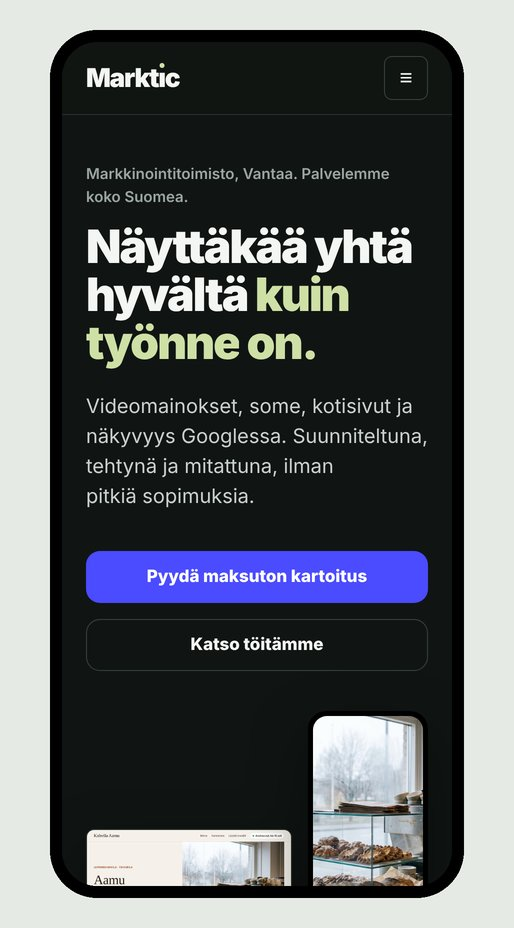
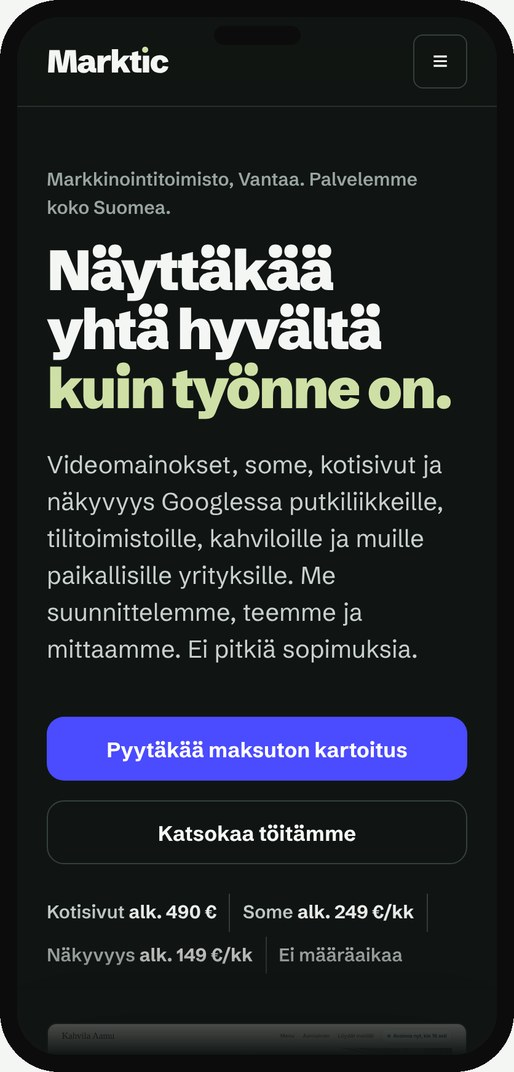
Mail dialog redesign, alkaen in hero prices, LVI case as paper report, new phone mock-up, shared report CSS
Claude-Session: https://claude.ai/code/session_013KbEkKeuAjt5iLSLovH75J

diff --git a/tyot.html b/tyot.html
@@ -10,14 +10,10 @@
 <meta property="og:title" content="Työt – Marktic"><meta property="og:description" content="Konseptitöitä ja esimerkkejä siitä, millaista jälkeä Marktic tekee: kotisivut, videomainokset ja näkyvyyden korjaukset."><meta property="og:url" content="https://marktic.fi/tyot.html"><meta property="og:locale" content="fi_FI">
 <link rel="stylesheet" href="site.css">
 <style>
-.cases{display:grid;gap:var(--s6)} .case{display:grid;grid-template-columns:1fr 1.2fr;gap:var(--s5);align-items:center;padding-top:var(--s5);border-top:1px solid var(--paper-line)} .case:first-child{border:0;padding-top:0} .case .ct p{color:var(--paper-mut);margin:var(--s2) 0 var(--s3)} .case .cv .shot{margin:0} .case .vidwrap{margin:0;justify-self:center} .case .rep2{margin:0}
+.cases{display:grid;gap:var(--s6)} .case{display:grid;grid-template-columns:1fr 1.2fr;gap:var(--s5);align-items:center;padding-top:var(--s5);border-top:1px solid var(--paper-line)} .case:first-child{border:0;padding-top:0} .case .ct p{color:var(--paper-mut);margin:var(--s2) 0 var(--s3)} .case .cv .shot{margin:0} .case .vidwrap{margin:0;justify-self:center} .case .rep{margin:0}
 @media (max-width:900px){.case{grid-template-columns:1fr;gap:var(--s4)}}
 .shot{display:block;margin-top:var(--s3);border-radius:var(--r2);overflow:hidden;border:1px solid var(--paper-line)} .shot img{width:100%;height:auto;display:block;transition:transform .3s var(--ease)} .shot:hover img{transform:scale(1.02)}
-.rep2{margin-top:var(--s3);border:1px solid var(--paper-line);border-radius:var(--r2);padding:var(--s3);background:#fff}
 .rh{display:flex;justify-content:space-between;align-items:center;font-size:var(--t-sm);margin-bottom:var(--s2)}
-.rep2{overflow:hidden} .rep2 table{width:100%;border-collapse:collapse;font-size:var(--t-sm);table-layout:fixed} .rep2 td,.rep2 th{overflow-wrap:normal}
-@media (max-width:640px){.rep2 table{table-layout:auto;display:block} .rep2 thead,.rep2 tbody{display:block} .rep2 thead th:first-child{display:none} .rep2 thead tr,.rep2 tbody tr{display:grid;grid-template-columns:1fr 1fr;gap:0 var(--s3)} .rep2 tbody th{grid-column:1/-1;padding-bottom:2px} .rep2 tbody td{border-top:0;padding-top:0} .rep2 thead th{padding:0 0 var(--s1)}} .rep2 th,.rep2 td{text-align:left;padding:var(--s2) 0;border-top:1px solid var(--paper-line);vertical-align:top} .rep2 thead th{border:0;color:var(--paper-mut);font-weight:600;font-size:var(--t-sm)} .rep2 tbody th{font-weight:600;color:var(--paper-ink);padding-right:var(--s2)}
-.rep2 .ok{color:#1f6b3a;font-weight:700} .rep2 .no{color:#9a4a1a;font-weight:700}
 .vidwrap{position:relative;max-width:260px;aspect-ratio:9/16;margin-top:var(--s3);border-radius:var(--r2);overflow:hidden;background:#000}
 .vid{width:100%;height:100%;object-fit:cover;display:block}
 .vidtxt{position:absolute;left:18px;top:24px;font-weight:900;font-size:32px;line-height:.95;letter-spacing:-.04em;color:#fff;text-shadow:0 2px 12px rgba(0,0,0,.5)} .vidtxt em{font-style:normal;color:var(--lichen)}
@@ -48,18 +44,33 @@
 <article class="case"><div class="ct"><p class="eyebrow">Konseptityö, kuvitteellinen asiakas</p><h2 class="h3">Kahvila Aamu: Instagram-mainosvideo</h2><p>11 sekunnin mainosvideo kolmesta valokuvasta: hidas kamera-ajo, ristihäivytykset ja tekstit. Sopii Instagramiin ja Metan mainontaan sellaisenaan. Sama kuvitteellinen kahvila kuin kotisivuilla.</p></div>
 <div class="cv vidwrap"><video class="vid" src="assets/kahvila-aamu-ad.mp4" poster="assets/kahvila-aamu-ad-poster.jpg" autoplay muted loop playsinline preload="metadata" disablepictureinpicture controlslist="nodownload noplaybackrate" tabindex="-1" style="pointer-events:none" aria-label="Esimerkki: Kahvila Aamun Instagram-mainosvideo"></video></div></article>
 <article class="case"><div class="ct"><p class="eyebrow">Konseptityö, kuvitteellinen asiakas</p><h2 class="h3">LVI-liike, Vantaa: näkyvyyden korjauspaketti</h2><p>Google-yritysprofiili, hakemistot ja palvelusivut, joista hakupalvelut löytävät yrityksen. Raportti näyttää tilanteen ennen ja 30 päivää korjausten jälkeen.</p></div>
-<div class="cv"><div class="rep2" aria-label="Esimerkki näkyvyysraportista ennen ja jälkeen korjauspaketin">
-<div class="rh"><b>LVI-Esimerkki Oy, Vantaa</b><span class="tag" style="margin:0">Esimerkki</span></div>
-<table><thead><tr><th scope="col"></th><th scope="col">Ennen</th><th scope="col">Jälkeen (30 pv)</th></tr></thead><tbody>
-<tr><th scope="row">Google-yritysprofiili</th><td class="no">Puutteellinen</td><td class="ok">Kunnossa</td></tr>
-<tr><th scope="row">Hakemistot, joita hakupalvelut käyttävät</th><td class="no">1 / 5</td><td class="ok">5 / 5</td></tr>
-<tr><th scope="row">Hakupalvelut mainitsevat yrityksen</th><td class="no">0 / 3 kysymyksessä</td><td class="ok">2 / 3 kysymyksessä</td></tr>
-<tr><th scope="row">Kotisivuilla rakenteinen tieto</th><td class="no">Ei</td><td class="ok">Kyllä</td></tr>
-</tbody></table>
-<p style="color:var(--paper-mut);font-size:var(--t-sm);margin-top:var(--s3)">Luvut ovat esimerkki siitä, miltä raportti näyttää, eivät mittaustulos.</p></div></article>
+<div class="cv"><div class="rep" aria-label="Esimerkki korjauspaketin raportista ennen ja jälkeen">
+      <div class="rh"><div><span class="rlogo"><span aria-hidden="true">Markt<span class="i">ı</span>c</span><span class="sr">Marktic</span></span><br><b>Korjauspaketin raportti · 30 päivää</b></div><div class="rr">LVI-Esimerkki Oy, Vantaa<br><span class="tag" style="margin:0">Esimerkki</span></div></div>
+      <div class="tiles3">
+        <div><small>Google-yritysprofiili</small><b class="ok">Kunnossa</b><span>päivästä 4</span></div>
+        <div><small>Mainittu vastauksissa</small><b>2 / 3</b><span>kysymyksessä</span></div>
+        <div><small>Hakemistot oikein</small><b class="ok">5 / 5</b><span>kaikki korjattu</span></div>
+      </div>
+      <table class="mtr"><caption>Ennen ja jälkeen korjauspaketin</caption>
+        <thead><tr><th scope="col"></th><th scope="col">ennen</th><th scope="col">päivä 30</th><th scope="col">muutos</th></tr></thead>
+        <tbody>
+          <tr><th scope="row">Google-yritysprofiili</th><td class="down">puutteellinen</td><td class="ok">kunnossa</td><td class="up">korjattu</td></tr>
+          <tr><th scope="row">Hakemistot, joita hakupalvelut käyttävät</th><td>1 / 5</td><td>5 / 5</td><td class="up">+4</td></tr>
+          <tr><th scope="row">Hakupalvelut mainitsevat yrityksen</th><td>0 / 3</td><td>2 / 3</td><td class="up">+2</td></tr>
+          <tr><th scope="row">Sija kartalla, ”LVI Vantaa”</th><td>9.</td><td>5.</td><td class="up">+4</td></tr>
+          <tr><th scope="row">Yritysprofiilin katselut</th><td>96</td><td>171</td><td class="up">+78 %</td></tr>
+          <tr><th scope="row">Soitot profiilista</th><td>4</td><td>9</td><td class="up">+5</td></tr>
+          <tr><th scope="row">Kotisivuilla rakenteinen tieto</th><td>ei</td><td>kyllä</td><td class="up">lisätty</td></tr>
+        </tbody></table>
+      <div class="rcols">
+        <div><small>Tehty</small><ul><li>Päivä 2: Google-yritysprofiili täydennetty, 14 kuvaa</li><li>Päivä 5: Neljä hakemistoa korjattu</li><li>Päivä 9: Palvelusivut ja rakenteinen tieto</li></ul></div>
+        <div><small>Seuraavaksi</small><ul><li>Arvostelupyyntö asiakkaille</li><li>Usein kysytyt kysymykset sivuille</li><li>Mittaus jatkuu viikoittain</li></ul></div>
+      </div>
+      <p class="cmp"><b>Luvut ovat esimerkki raportin muodosta, eivät mittaustulos.</b></p>
+    </div></div></article>
 <article class="case"><div class="ct"><p class="eyebrow">Oma työ</p><h2 class="h3">Tämä sivusto</h2><p>Marktic.fi on tehty samalla tavalla kuin asiakkaiden sivut: nopea, toimii puhelimessa, rakenteinen tieto hakupalveluille, ei seurantaevästeitä. Jos pidätte tästä, saatte samanlaisen.</p>
 <ul class="list" style="margin-top:var(--s3)"><li>Latautuu nopeasti myös puhelimessa</li><li>Toimii ilman evästeitä</li><li>Tiedot muodossa, jonka Google ja hakupalvelut ymmärtävät</li></ul></div>
-<div class="cv"><img class="shot" src="demo/marktic-puhelin.jpg" alt="Marktic.fi:n etusivu puhelimen näytöllä" width="514" height="928" loading="lazy" style="max-width:360px;margin:0 auto;border:0;box-shadow:none;background:none"></div></article>
+<div class="cv"><img class="shot" src="demo/marktic-puhelin.jpg" alt="Marktic.fi:n etusivu puhelimen näytöllä" width="514" height="1072" loading="lazy" style="max-width:360px;margin:0 auto;border:0;box-shadow:none;background:none"></div></article>
 </div></section>
 <section class="close"><div class="wrap">
   <h2>Lähettäkää yrityksenne nimi ja paikkakunta.</h2>

diff --git a/site.css b/site.css
@@ -32,6 +32,7 @@ a{color:inherit}
 img,svg{display:block;max-width:100%}
 .wrap{width:min(1200px,100% - 2*var(--s4));margin-inline:auto}
 .mono{font-family:"JetBrains Mono",ui-monospace,Menlo,monospace;font-size:var(--t-xs);letter-spacing:.08em;text-transform:uppercase}
+.sr{position:absolute;width:1px;height:1px;overflow:hidden;clip:rect(0 0 0 0);white-space:nowrap}
 .skip{position:absolute;left:var(--s3);top:-60px;background:var(--lichen);color:var(--lichen-ink);padding:var(--s2) var(--s3);border-radius:var(--r1);font-weight:700;z-index:50}
 .skip:focus{top:var(--s3)}
 :focus-visible{outline:3px solid var(--lichen);outline-offset:3px;border-radius:var(--r1)}
@@ -47,12 +48,19 @@ img,svg{display:block;max-width:100%}
 .nav a{text-decoration:none;font-weight:600;font-size:var(--t-sm);color:var(--ink-2);padding:0;min-height:44px;min-width:44px;display:inline-flex;align-items:center;justify-content:center;box-sizing:border-box;border-bottom:2px solid transparent;transition:color .2s var(--ease),border-color .2s var(--ease)}
 .nav a:hover{color:var(--ink)} .nav a[aria-current=page]{color:var(--ink);border-color:var(--lichen)}
 .nav a.mail{color:var(--lichen);margin-left:var(--s2);border-bottom:0;text-decoration:underline;text-underline-offset:5px;text-decoration-thickness:1.5px} .nav a.mail:hover{color:var(--ink)}
-.maild{margin:auto;inset:0;position:fixed;border:1px solid var(--line-2);background:var(--bg-2,#171d1a);color:var(--ink);border-radius:var(--r2);padding:0;width:min(440px,calc(100vw - 32px));box-shadow:0 30px 80px rgba(0,0,0,.5)} .maild::backdrop{background:rgba(0,0,0,.55)}
-.maild-f{padding:var(--s5);display:grid;gap:var(--s3);position:relative} .maild-f h2{font-size:var(--t-xl);margin:0} .maild-f p{color:var(--ink-2);font-size:var(--t-sm);margin:0}
-.maild-f label{display:grid;gap:6px;font-weight:600;font-size:var(--t-sm)} .maild-f label small{font-weight:400;color:var(--mut);display:inline;margin-left:4px}
-.maild-f input,.maild-f textarea{font:inherit;color:var(--ink);background:var(--bg);border:1px solid var(--line-2);border-radius:var(--r1);padding:10px 12px;min-height:44px} .maild-f textarea{min-height:72px;resize:vertical}
-.maild-b{display:flex;gap:var(--s2);flex-wrap:wrap;margin-top:var(--s1)} .maild-x{position:absolute;right:12px;top:12px;width:40px;height:40px;background:none;border:0;color:var(--ink-2);font-size:18px;cursor:pointer;border-radius:var(--r1)} .maild-x:hover{color:var(--ink)}
-.maild-a a{color:var(--lichen)} .maild .btn-ghost{background:transparent;color:var(--ink);border:1px solid var(--line-2)} .maild .btn-ghost:hover{border-color:var(--ink)}
+.maild{margin:auto;inset:0;position:fixed;border:1px solid var(--line-2);background:var(--bg-2);color:var(--ink);border-radius:var(--r2);padding:0;width:min(520px,calc(100vw - 32px));box-shadow:0 30px 80px rgba(0,0,0,.55)} .maild::backdrop{background:rgba(8,10,9,.6);backdrop-filter:blur(2px)}
+.maild-f{padding:var(--s4) var(--s5) var(--s5);display:grid;gap:var(--s3)}
+.maild-h{display:flex;justify-content:space-between;align-items:center;margin:0 calc(-1*var(--s5)) var(--s2);padding:0 var(--s4) var(--s3) var(--s5);border-bottom:1px solid var(--line)}
+.maild-logo{font-weight:900;font-size:20px;letter-spacing:-.045em} .maild-logo .i{position:relative} .maild-logo .i::after{content:"";position:absolute;left:50%;top:.19em;width:.19em;height:.19em;border-radius:50%;background:var(--lichen);transform:translateX(-50%)}
+.maild-f h2{font-size:var(--t-2xl);margin:0;letter-spacing:-.02em} .maild-p{color:var(--ink-2);font-size:var(--t-sm);margin:0;max-width:44ch}
+.maild-g{display:grid;grid-template-columns:1fr 1fr;gap:var(--s3)} @media (max-width:560px){.maild-g{grid-template-columns:1fr}}
+.maild-f label{display:grid;gap:6px;font-size:var(--t-sm)} .maild-f label>span{font-weight:600;color:var(--ink)} .maild-f label small{font-weight:400;color:var(--mut);margin-left:6px}
+.maild-f input,.maild-f textarea{font:inherit;color:var(--ink);background:var(--bg);border:1px solid var(--line-2);border-radius:var(--r1);padding:11px 13px;min-height:46px;width:100%;box-sizing:border-box} .maild-f input::placeholder,.maild-f textarea::placeholder{color:var(--mut)} .maild-f textarea{min-height:84px;resize:vertical}
+.maild-f input:focus-visible,.maild-f textarea:focus-visible{outline:2px solid var(--brand);outline-offset:0;border-color:var(--brand)}
+.maild-b{display:flex;gap:var(--s3);align-items:center;flex-wrap:wrap;margin-top:var(--s1)} .maild-b .btn{min-height:48px}
+.maild-copy{background:none;border:0;color:var(--ink-2);font:inherit;font-weight:600;cursor:pointer;padding:10px 4px;text-decoration:underline;text-underline-offset:4px;border-radius:var(--r1)} .maild-copy:hover{color:var(--ink)}
+.maild-x{width:40px;height:40px;background:none;border:0;color:var(--ink-2);font-size:16px;cursor:pointer;border-radius:var(--r1)} .maild-x:hover{color:var(--ink);background:var(--bg)}
+.maild-a{color:var(--mut);font-size:var(--t-xs);margin:0} .maild-a a{color:var(--lichen)}
 .menu-btn{display:none;background:none;border:1px solid var(--line-2);color:var(--ink);border-radius:var(--r1);width:44px;height:44px;cursor:pointer;font-size:22px;line-height:1}
 
 /* buttons */
@@ -138,3 +146,20 @@ footer ul{list-style:none;display:grid;gap:0;align-content:start}
   footer .wrap{grid-template-columns:1fr}
   section{padding:var(--s6) 0}
 }
+
+/* Report mock-up (home + Työt) */
+.rep{background:#fff;border:1px solid var(--paper-line);border-radius:6px;padding:var(--s4);color:var(--paper-ink);box-shadow:0 20px 50px rgba(23,32,29,.10);font-size:var(--t-sm)}
+.rh{display:flex;justify-content:space-between;gap:var(--s3);padding-bottom:var(--s3);border-bottom:2px solid var(--paper-ink);line-height:1.45} .rh b{font-size:var(--t-base)} .rr{text-align:right;color:var(--paper-mut)}
+.rlogo{font-weight:900;font-size:var(--t-lg);letter-spacing:-.045em} .rlogo .i{position:relative} .rlogo .i::after{content:"";position:absolute;left:50%;top:.19em;width:.19em;height:.19em;border-radius:50%;background:var(--brand);transform:translateX(-50%)}
+.tiles3{display:grid;grid-template-columns:repeat(3,1fr);gap:var(--s2);margin:var(--s3) 0}
+.tiles3 div{border:1px solid var(--paper-line);border-radius:var(--r1);padding:var(--s2) var(--s3)} .tiles3 small{display:block;color:var(--paper-mut);font-size:var(--t-xs)} .tiles3 b{display:block;font-size:var(--t-xl);font-weight:700;letter-spacing:-.02em;margin:2px 0} .tiles3 span{color:var(--paper-mut);font-size:var(--t-xs)}
+.grid4{width:100%;border-collapse:collapse;margin-top:var(--s2)} .grid4 caption{text-align:left;color:var(--paper-mut);font-size:var(--t-xs);padding-bottom:var(--s2)}
+.grid4 th,.grid4 td{padding:8px 4px;border-top:1px solid var(--paper-line);text-align:center;font-weight:600;font-size:var(--t-xs);color:var(--paper-mut)} .grid4 tbody th{text-align:left;font-weight:500;color:var(--paper-ink);font-size:var(--t-sm)} .grid4 thead th{border:0}
+.grid4 i{display:inline-block;width:14px;height:14px;border-radius:50%;border:2px solid var(--paper-line)} .grid4 i.y{background:var(--brand);border-color:var(--brand)}
+.mtr{width:100%;border-collapse:collapse;margin-top:var(--s3)} .mtr caption{text-align:left;font-weight:700;color:var(--paper-ink);font-size:var(--t-sm);padding:var(--s3) 0 var(--s2);border-top:1px solid var(--paper-line)}
+.mtr th,.mtr td{padding:7px 4px;border-top:1px solid var(--paper-line);font-size:var(--t-xs);text-align:right;color:var(--paper-mut)} .mtr td{font-variant-numeric:tabular-nums} .mtr thead th{border:0;font-weight:600} .mtr tbody th{text-align:left;color:var(--paper-ink);font-weight:500;font-size:var(--t-sm)} .mtr td.up{color:#1f6b3a;font-weight:700}
+.cmp{margin-top:var(--s2);font-size:var(--t-xs);color:var(--paper-mut)}
+.rcols{display:grid;grid-template-columns:1fr 1fr;gap:var(--s3);margin-top:var(--s3);padding-top:var(--s3);border-top:1px solid var(--paper-line)} .rcols small{display:block;font-weight:700;color:var(--paper-ink);margin-bottom:var(--s1)} .rcols ul{margin-left:18px;color:var(--paper-mut)} .rcols li{margin:3px 0}
+.ok{color:#1f6b3a;font-weight:700}.todo{color:#9a4a1a;font-weight:700}
+.rep .mtr td.down{color:#9a4a1a;font-weight:700}
+@media (max-width:900px){.tiles3{grid-template-columns:1fr} .rcols{grid-template-columns:1fr} .rep{padding:var(--s3)} .grid4 tbody th{font-size:var(--t-xs)} .grid4 thead th span{display:inline-block;transform:rotate(-45deg);transform-origin:center;font-size:11px}}

diff --git a/index.html b/index.html
@@ -35,25 +35,13 @@
 .nums{padding:var(--s6) 0;border-top:1px solid var(--paper-line)} .n{border-top:2px solid var(--paper-ink);padding-top:var(--s3)} .n b{display:block;font-size:var(--t-4xl);font-weight:900;letter-spacing:-.05em;line-height:1;margin-bottom:var(--s2)} .n span{color:var(--paper-mut);font-size:var(--t-sm)}
 .how{counter-reset:step}
 .how .card{position:relative}
-.rep{background:#fff;border:1px solid var(--paper-line);border-radius:6px;padding:var(--s4);color:var(--paper-ink);box-shadow:0 20px 50px rgba(23,32,29,.10);font-size:var(--t-sm)}
-.rh{display:flex;justify-content:space-between;gap:var(--s3);padding-bottom:var(--s3);border-bottom:2px solid var(--paper-ink);line-height:1.45} .rh b{font-size:var(--t-base)} .rr{text-align:right;color:var(--paper-mut)}
-.rlogo{font-weight:900;font-size:var(--t-lg);letter-spacing:-.045em} .rlogo .i{position:relative} .rlogo .i::after{content:"";position:absolute;left:50%;top:.19em;width:.19em;height:.19em;border-radius:50%;background:var(--brand);transform:translateX(-50%)}
-.tiles3{display:grid;grid-template-columns:repeat(3,1fr);gap:var(--s2);margin:var(--s3) 0}
-.tiles3 div{border:1px solid var(--paper-line);border-radius:var(--r1);padding:var(--s2) var(--s3)} .tiles3 small{display:block;color:var(--paper-mut);font-size:var(--t-xs)} .tiles3 b{display:block;font-size:var(--t-xl);font-weight:700;letter-spacing:-.02em;margin:2px 0} .tiles3 span{color:var(--paper-mut);font-size:var(--t-xs)}
-.grid4{width:100%;border-collapse:collapse;margin-top:var(--s2)} .grid4 caption{text-align:left;color:var(--paper-mut);font-size:var(--t-xs);padding-bottom:var(--s2)}
-.grid4 th,.grid4 td{padding:8px 4px;border-top:1px solid var(--paper-line);text-align:center;font-weight:600;font-size:var(--t-xs);color:var(--paper-mut)} .grid4 tbody th{text-align:left;font-weight:500;color:var(--paper-ink);font-size:var(--t-sm)} .grid4 thead th{border:0}
-.grid4 i{display:inline-block;width:14px;height:14px;border-radius:50%;border:2px solid var(--paper-line)} .grid4 i.y{background:var(--brand);border-color:var(--brand)}
-.mtr{width:100%;border-collapse:collapse;margin-top:var(--s3)} .mtr caption{text-align:left;font-weight:700;color:var(--paper-ink);font-size:var(--t-sm);padding:var(--s3) 0 var(--s2);border-top:1px solid var(--paper-line)}
-.mtr th,.mtr td{padding:7px 4px;border-top:1px solid var(--paper-line);font-size:var(--t-xs);text-align:right;color:var(--paper-mut);font-variant-numeric:tabular-nums} .mtr thead th{border:0;font-weight:600} .mtr tbody th{text-align:left;color:var(--paper-ink);font-weight:500;font-size:var(--t-sm)} .mtr td.up{color:#1f6b3a;font-weight:700}
-.cmp{margin-top:var(--s2);font-size:var(--t-xs);color:var(--paper-mut)}
-.rcols{display:grid;grid-template-columns:1fr 1fr;gap:var(--s3);margin-top:var(--s3);padding-top:var(--s3);border-top:1px solid var(--paper-line)} .rcols small{display:block;font-weight:700;color:var(--paper-ink);margin-bottom:var(--s1)} .rcols ul{margin-left:18px;color:var(--paper-mut)} .rcols li{margin:3px 0}
-.ok{color:#1f6b3a;font-weight:700}.todo{color:#9a4a1a;font-weight:700}
+
 @media (max-width:900px){
   .hero .wrap{grid-template-columns:1fr} .hero .cta .btn{flex:1 1 100%} .hero .pl{gap:4px 0} .hero .pl span{padding:4px 10px 4px 0;margin-right:10px}
   .stage{height:auto;padding-bottom:72px}
   .stage .shot{position:static;width:100%} .stage .phone{position:absolute;right:0;bottom:0;width:34%;height:auto;aspect-ratio:9/18.5;padding:5px;border-radius:18px} .reelvid{border-radius:14px}
   .cap{position:static;margin-top:var(--s2);max-width:60%}
-  .svc{grid-template-columns:1fr} .tiles3{grid-template-columns:1fr} .rcols{grid-template-columns:1fr} .rep{padding:var(--s3)} .grid4 tbody th{font-size:var(--t-xs)} .grid4 thead th span{display:inline-block;transform:rotate(-45deg);transform-origin:center;font-size:11px}
+  .svc{grid-template-columns:1fr}
 }
 </style>
 <script type="application/ld+json">
@@ -98,7 +86,7 @@
       <a class="btn btn-brand" href="yhteys.html">Pyytäkää maksuton kartoitus</a>
       <a class="btn btn-ghost" href="tyot.html">Katsokaa töitämme</a>
     </div>
-    <p class="pl rise d3"><span>Kotisivut <b>490 €</b></span><span>Some <b>249 €/kk</b></span><span>Näkyvyys <b>149 €/kk</b></span><span>Ei määräaikaa</span></p>
+    <p class="pl rise d3"><span>Kotisivut <b>alk. 490 €</b></span><span>Some <b>alk. 249 €/kk</b></span><span>Näkyvyys <b>alk. 149 €/kk</b></span><span>Ei määräaikaa</span></p>
   </div>
   <div class="stage rise d2" aria-label="Esimerkki: kahvilan kotisivu ja Instagram-videomainos" role="img">
     <img class="shot" src="demo/kahvila-aamu.jpg" alt="" width="1200" height="750">

diff --git a/mail.js b/mail.js
@@ -2,15 +2,17 @@
 (function(){
 const A='info@marktic.fi';
 const d=document.createElement('dialog');d.className='maild';d.setAttribute('aria-labelledby','maild-t');
-d.innerHTML=`<form method="dialog" class="maild-f">
-  <button type="button" class="maild-x" aria-label="Sulje" data-close>✕</button>
-  <h2 id="maild-t">Lähettäkää viesti</h2>
-  <p>Täyttäkää nimi ja paikkakunta, niin avaamme valmiin viestin sähköpostiohjelmaanne. Vastaamme kahden arkipäivän kuluessa.</p>
-  <label>Yrityksen nimi<input name="y" autocomplete="organization" required></label>
-  <label>Paikkakunta<input name="p" autocomplete="address-level2" required></label>
-  <label><span>Viesti <small>(valinnainen)</small></span><textarea name="m" rows="3"></textarea></label>
-  <div class="maild-b"><button type="button" class="btn btn-brand" data-send>Avatkaa sähköposti</button><button type="button" class="btn btn-ghost" data-copy>Kopioikaa osoite</button></div>
-  <p class="maild-a">Tai kirjoittakaa suoraan: <a href="mailto:${A}">${A}</a></p>
+d.innerHTML=`<form class="maild-f" novalidate>
+  <div class="maild-h"><span class="maild-logo" aria-hidden="true">Markt<span class="i">ı</span>c</span><button type="button" class="maild-x" aria-label="Sulje" data-close>✕</button></div>
+  <h2 id="maild-t">Maksuton kartoitus</h2>
+  <p class="maild-p">Kertokaa yrityksen nimi ja paikkakunta. Avaamme valmiin viestin sähköpostiohjelmaanne; vastaamme kahden arkipäivän kuluessa.</p>
+  <div class="maild-g">
+    <label><span>Yrityksen nimi</span><input name="y" autocomplete="organization" required placeholder="Esim. LVI Virtanen Oy"></label>
+    <label><span>Paikkakunta</span><input name="p" autocomplete="address-level2" required placeholder="Esim. Vantaa"></label>
+  </div>
+  <label><span>Viesti <small>valinnainen</small></span><textarea name="m" rows="3" placeholder="Mitä haluaisitte, että katsomme ensin?"></textarea></label>
+  <div class="maild-b"><button type="button" class="btn btn-brand" data-send>Avatkaa sähköposti</button><button type="button" class="maild-copy" data-copy>Kopioikaa osoite</button></div>
+  <p class="maild-a">Suoraan: <a href="mailto:${A}">${A}</a> · Ei lomakepalvelinta, viesti lähtee omasta sähköpostistanne.</p>
 </form>`;
 document.body.appendChild(d);
 const f=d.querySelector('form');
@@ -18,7 +20,7 @@ function build(){const y=f.y.value.trim(),p=f.p.value.trim(),m=f.m.value.trim();
   const s='Maksuton kartoitus: '+(y||'[yritys]')+', '+(p||'[paikkakunta]');
   const b='Hei,\n\nhaluaisin maksuttoman kartoituksen.\n\nYritys: '+y+'\nPaikkakunta: '+p+(m?'\n\n'+m:'')+'\n';
   return 'mailto:'+A+'?subject='+encodeURIComponent(s)+'&body='+encodeURIComponent(b);}
-d.querySelector('[data-send]').addEventListener('click',()=>{if(!f.reportValidity())return;location.href=build();});
+d.querySelector('[data-send]').addEventListener('click',()=>{if(!f.y.value.trim()||!f.p.value.trim()){f.reportValidity();return}location.href=build();});
 d.querySelector('[data-copy]').addEventListener('click',async e=>{try{await navigator.clipboard.writeText(A);e.target.textContent='Kopioitu';setTimeout(()=>e.target.textContent='Kopioikaa osoite',1500)}catch(_){location.href='mailto:'+A}});
 d.addEventListener('click',e=>{if(e.target===d)d.close()});
 d.querySelector('[data-close]').addEventListener('click',()=>d.close());
